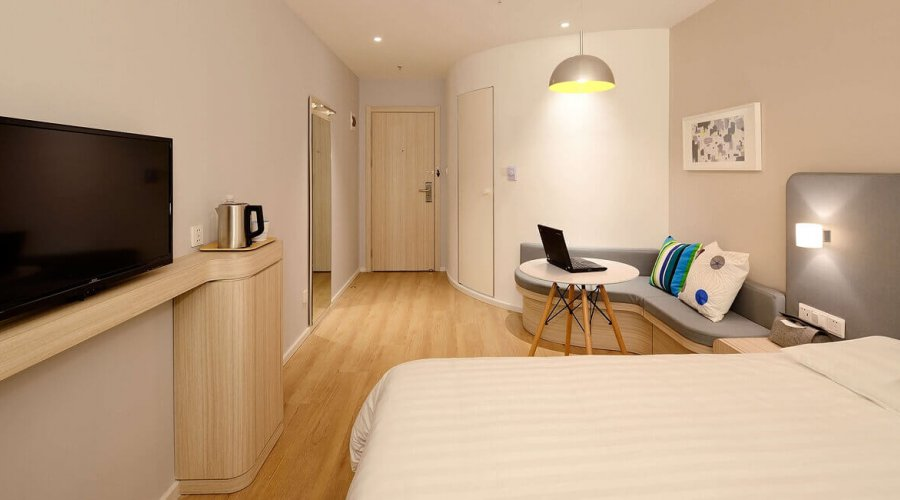
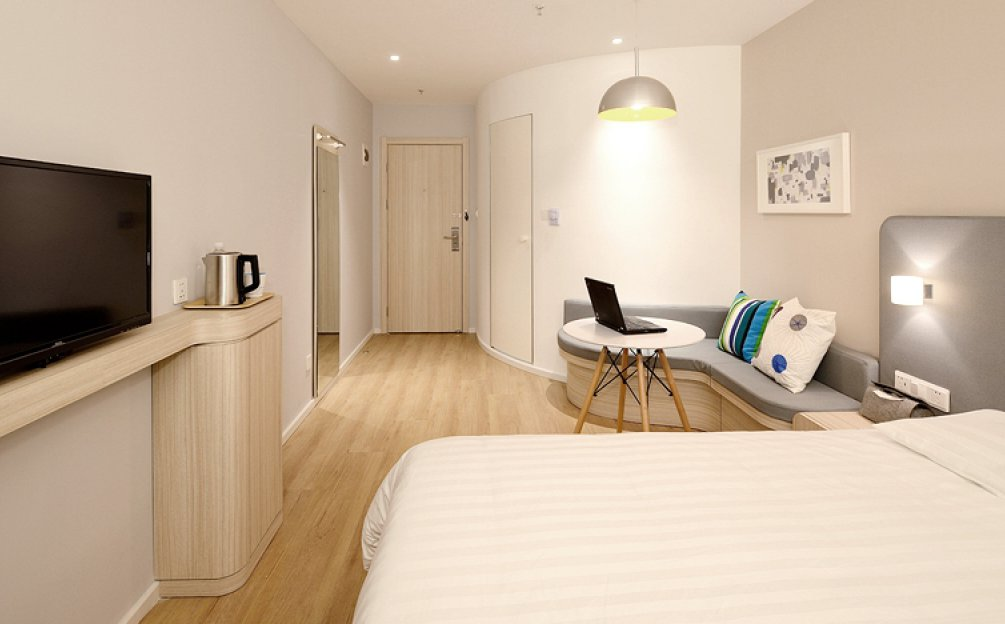
#35 Connect View Accommodations Page with Database

diff --git a/css/styles.css b/css/styles.css
@@ -48,4 +48,7 @@
         margin-left: auto !important;
         margin-right: auto !important;
     }
+    .milenia-widget .milenia-entities--rooms .milenia-entity-title:not(:only-child) {
+        margin-bottom: 0rem;
+    }
 }

diff --git a/view-accommodations.php b/view-accommodations.php
@@ -1,8 +1,22 @@
+<?php
+include_once(dirname(__FILE__) . '/class/include.php');
+
+$id = '';
+
+if (isset($_GET['id'])) {
+    $id = $_GET['id'];
+}
+
+$ROOM = new Room($id);
+
+$rooms = $ROOM->all();
+?>
+
 <!DOCTYPE html>
 <html lang="en">
     <head>
         <!--================ Basic page needs ================-->
-        <title>Araliya Gardens | Classic Balcony Room v1</title>
+        <title>Araliya Gardens | <?php echo $ROOM->title; ?></title>
         <meta charset="UTF-8">
         <meta name="author" content="">
         <meta name="keywords" content="">
@@ -60,11 +74,11 @@
             <!--================ Breadcrumb ================-->
             <div data-bg-image-src="images/breadcrumb-bg-2.jpg" class="milenia-breadcrumb text-center milenia-colorizer--scheme-dark milenia-colorizer--parallax">
                 <div class="container">
-                    <h1 class="milenia-page-title">View Accommodations</h1>
+                    <h1 class="milenia-page-title"><?php echo $ROOM->title; ?></h1>
                     <nav class="milenia-breadcrumb-path">
                         <span><a href="./">Home</a></span>
                         /<span><a href="accommodations.php">Accommodations</a></span>
-                        /<span>View Accommodations</span>
+                        /<span><?php echo $ROOM->title; ?></span>
                     </nav>
                 </div>
             </div>
@@ -74,7 +88,7 @@
                     <header class="milenia-page-header milenia-entity-single milenia-entity--room">
                         <div class="row align-items-center milenia-columns-aligner--edges-lg">
                             <div class="col-lg-9">
-                                <h1>Classic Balcony Room v1</h1>
+                                <h1><?php echo $ROOM->title; ?></h1>
                             </div>
                             <div class="col-lg-3">
                                 <div class="milenia-entity-meta">
@@ -88,27 +102,28 @@
                             <main class="col-lg-9 col-md-8 milenia-entity-single milenia-entity--room">
                                 <div class="milenia-entity-content">
                                     <div id="simple-slideshow-1" class="owl-carousel milenia-simple-slideshow">
-                                        <img src="images/rooms-list-image-22.jpg" alt="">
-                                        <img src="images/rooms-list-image-23.jpg" alt="">
-                                        <img src="images/rooms-list-image-24.jpg" alt="">
-                                        <img src="images/rooms-list-image-25.jpg" alt="">
-                                        <img src="images/rooms-list-image-26.jpg" alt="">
-                                        <img src="images/rooms-list-image-27.jpg" alt="">
-                                        <img src="images/rooms-list-image-28.jpg" alt="">
+                                        <?php
+                                        $photos = RoomPhoto::getRoomPhotosById($ROOM->id);
+                                        foreach ($photos as $photo) {
+                                            ?>
+                                            <img src="upload/room/gallery/<?php echo $photo['image_name']; ?>" alt="">
+                                            <?php
+                                        }
+                                        ?>
                                     </div>
                                     <div data-sync="#simple-slideshow-1" class="owl-carousel owl-carousel--nav-edges owl-carousel--nav-onhover owl-carousel--nav-small milenia-simple-slideshow-thumbs">
-                                        <img src="images/rooms-list-image-22.jpg" alt="">
-                                        <img src="images/rooms-list-image-23.jpg" alt="">
-                                        <img src="images/rooms-list-image-24.jpg" alt="">
-                                        <img src="images/rooms-list-image-25.jpg" alt="">
-                                        <img src="images/rooms-list-image-26.jpg" alt="">
-                                        <img src="images/rooms-list-image-27.jpg" alt="">
-                                        <img src="images/rooms-list-image-28.jpg" alt="">
+                                        <?php
+                                        $photos = RoomPhoto::getRoomPhotosById($ROOM->id);
+                                        foreach ($photos as $photo) {
+                                            ?>
+                                            <img src="upload/room/gallery/thumb/<?php echo $photo['image_name']; ?>" alt="">
+                                            <?php
+                                        }
+                                        ?>
                                     </div>
                                     <div id="tab-description" tabindex="0" role="tabpanel" aria-labelledby="tab-description-link" class="milenia-tab">
-                                        <p>Sed laoreet aliquam leo. Ut tellus dolor, dapibus eget, elementum vel, cursus eleifend, elit. Aenean auctor wisi et urna. Aliquam erat volutpat. Duis ac turpis. Integer rutrum ante eu lacus. Vestibulum libero nisl, porta vel, scelerisque eget, malesuada at, neque. Vivamus eget nibh. Etiam cursus leo vel metus. Nulla facilisi. Aenean nec eros. Vestibulum ante ipsum primis in faucibus orci luctus et ultrices posuere cubilia Curae; Suspendisse sollicitudin velit sed leo. 
-                                        Sed laoreet aliquam leo. Ut tellus dolor, dapibus eget, elementum vel, cursus eleifend, elit. Aenean auctor wisi et urna. Aliquam erat volutpat. Duis ac turpis. Integer rutrum ante eu lacus. Vestibulum libero nisl, porta vel, scelerisque eget, malesuada at, neque. Vivamus eget nibh. Etiam cursus leo vel metus. Nulla facilisi. Aenean nec eros. Vestibulum ante ipsum primis in faucibus orci luctus et ultrices posuere cubilia Curae; Suspendisse sollicitudin velit sed leo.</p>
-                                        <a href="#" data-fancybox-album-src="[{&quot;src&quot;: &quot;images/floor-plan.png&quot;, &quot;opts&quot;: {&quot;caption&quot;: &quot;The floor plan&quot;}}]" class="milenia-btn milenia-btn--link milenia-btn--scheme-primary">View Floor Plan</a>
+                                        <span class="content"><p><?php echo $ROOM->description; ?></p></span>
+                                        <a href="#" class="milenia-btn milenia-btn--link milenia-btn--scheme-primary">Inquiry Now</a>
                                     </div>
                                 </div>
                             </main>
@@ -124,111 +139,29 @@
                                                 <!--================ Entities ================-->
                                                 <div class="milenia-entities milenia-entities--rooms">
                                                     <!--================ Entity ================-->
-                                                    <article class="milenia-entity">
-                                                        <div class="milenia-entity-media">
-                                                            <a href="rooms_single_room_page_v2.html" class="milenia-ln--independent">
-                                                                <img src="images/rooms-list-image-26-100x78.png" alt=""></a>
-                                                        </div>
-                                                        <div class="milenia-entity-content">
-                                                            <div class="milenia-entity-header">
-                                                                <div class="milenia-entity-meta">
-                                                                    <div>From $199.00/night</div>
+                                                    <?php
+                                                    foreach ($rooms as $key => $room) {
+                                                        if ($key < 10) {
+                                                            ?>
+                                                            <article class="milenia-entity">
+                                                                <div class="milenia-entity-media">
+                                                                    <a href="view-accommodations.php?id=<?php echo $room["id"]; ?>" class="milenia-ln--independent">
+                                                                        <img src="upload/room/<?php echo $room['image_name'] ?>" alt=""></a>
                                                                 </div>
-                                                                <h2 class="milenia-entity-title"><a href="rooms_single_room_page_v2.html" class="milenia-color--unchangeable">Superior Double Room</a></h2>
-                                                            </div>
-                                                        </div>
-                                                    </article>
-                                                    <!--================ End of Entity ================-->
-                                                    <!--================ Entity ================-->
-                                                    <article class="milenia-entity">
-                                                        <div class="milenia-entity-media">
-                                                            <a href="rooms_single_room_page_v2.html" class="milenia-ln--independent">
-                                                                <img src="images/rooms-list-image-27-100x78.png" alt=""></a>
-                                                        </div>
-                                                        <div class="milenia-entity-content">
-                                                            <div class="milenia-entity-header">
-                                                                <div class="milenia-entity-meta">
-                                                                    <div>From $299.00/night</div>
+                                                                <div class="milenia-entity-content">
+                                                                    <div class="milenia-entity-header">
+                                                                        <div class="milenia-entity-meta">
+                                                                            <div>From US$<?php echo $room['price'] ?>/night</div>
+                                                                        </div>
+                                                                        <h2 class="milenia-entity-title">
+                                                                            <a href="view-accommodations.php?id=<?php echo $room["id"]; ?>" class="milenia-color--unchangeable"><?php echo $room['title'] ?></a></h2>
+                                                                    </div>
                                                                 </div>
-                                                                <h2 class="milenia-entity-title">
-                                                                    <a href="rooms_single_room_page_v2.html" class="milenia-color--unchangeable">Superior Balcony Double Room</a>
-                                                                </h2>
-                                                            </div>
-                                                        </div>
-                                                    </article>
-                                                    <!--================ End of Entity ================-->
-                                                    <!--================ Entity ================-->
-                                                    <article class="milenia-entity">
-                                                        <div class="milenia-entity-media">
-                                                            <a href="rooms_single_room_page_v2.html" class="milenia-ln--independent">
-                                                                <img src="images/rooms-list-image-28-100x78.png" alt=""></a>
-                                                        </div>
-                                                        <div class="milenia-entity-content">
-                                                            <div class="milenia-entity-header">
-                                                                <div class="milenia-entity-meta">
-                                                                    <div>From $399.00/night</div>
-                                                                </div>
-                                                                <h2 class="milenia-entity-title">
-                                                                    <a href="rooms_single_room_page_v2.html" class="milenia-color--unchangeable">Delux Double Room</a>
-                                                                </h2>
-                                                            </div>
-                                                        </div>
-                                                    </article>
-                                                    <!--================ End of Entity ================-->
-                                                    <!--================ Entity ================-->
-                                                    <article class="milenia-entity">
-                                                        <div class="milenia-entity-media">
-                                                            <a href="rooms_single_room_page_v2.html" class="milenia-ln--independent">
-                                                                <img src="images/rooms-list-image-26-100x78.png" alt=""></a>
-                                                        </div>
-                                                        <div class="milenia-entity-content">
-                                                            <div class="milenia-entity-header">
-                                                                <div class="milenia-entity-meta">
-                                                                    <div>From $199.00/night</div>
-                                                                </div>
-                                                                <h2 class="milenia-entity-title">
-                                                                    <a href="rooms_single_room_page_v2.html" class="milenia-color--unchangeable">Superior Double Room</a>
-                                                                </h2>
-                                                            </div>
-                                                        </div>
-                                                    </article>
-                                                    <!--================ End of Entity ================-->
-                                                    <!--================ Entity ================-->
-                                                    <article class="milenia-entity">
-                                                        <div class="milenia-entity-media">
-                                                            <a href="rooms_single_room_page_v2.html" class="milenia-ln--independent">
-                                                                <img src="images/rooms-list-image-27-100x78.png" alt=""></a>
-                                                        </div>
-                                                        <div class="milenia-entity-content">
-                                                            <div class="milenia-entity-header">
-                                                                <div class="milenia-entity-meta">
-                                                                    <div>From $299.00/night</div>
-                                                                </div>
-                                                                <h2 class="milenia-entity-title">
-                                                                    <a href="rooms_single_room_page_v2.html" class="milenia-color--unchangeable">Superior Balcony Double Room</a>
-                                                                </h2>
-                                                            </div>
-                                                        </div>
-                                                    </article>
-                                                    <!--================ End of Entity ================-->
-                                                    <!--================ Entity ================-->
-                                                    <article class="milenia-entity">
-                                                        <div class="milenia-entity-media">
-                                                            <a href="rooms_single_room_page_v2.html" class="milenia-ln--independent">
-                                                                <img src="images/rooms-list-image-28-100x78.png" alt=""></a>
-                                                        </div>
-                                                        <div class="milenia-entity-content">
-                                                            <div class="milenia-entity-header">
-                                                                <div class="milenia-entity-meta">
-                                                                    <div>From $399.00/night</div>
-                                                                </div>
-                                                                <h2 class="milenia-entity-title">
-                                                                    <a href="rooms_single_room_page_v2.html" class="milenia-color--unchangeable">Delux Double Room</a>
-                                                                </h2>
-                                                            </div>
-                                                        </div>
-                                                    </article>
-                                                    <!--================ End of Entity ================-->
+                                                            </article>
+                                                            <?php
+                                                        }
+                                                    }
+                                                    ?>
                                                 </div>
                                                 <!--================ End of Entities ================-->
                                             </div>

diff --git a/view-things-to-do.php b/view-things-to-do.php
@@ -116,14 +116,13 @@ $ThingsToDo = $THINGS_TO_DO->all();
                                         $photos = ThingsToDoPhoto::getThingsToDoPhotosById($THINGS_TO_DO->id);
                                         foreach ($photos as $photo) {
                                             ?>
-                                        <img alt="" src="upload/things-to-do/gallery/thumb/<?php echo $photo['image_name']; ?>">
+                                            <img alt="" src="upload/things-to-do/gallery/thumb/<?php echo $photo['image_name']; ?>">
                                             <?php
                                         }
                                         ?>
                                     </div>
                                     <div id="tab-description" tabindex="0" role="tabpanel" aria-labelledby="tab-description-link" class="milenia-tab">
-                                        <p><?php echo $THINGS_TO_DO->description; ?></p>
-                                        <a href="#" data-fancybox-album-src="[{&quot;src&quot;: &quot;images/floor-plan.png&quot;, &quot;opts&quot;: {&quot;caption&quot;: &quot;The floor plan&quot;}}]" class="milenia-btn milenia-btn--link milenia-btn--scheme-primary">View Floor Plan</a>
+                                        <span class="content"><p><?php echo $THINGS_TO_DO->description; ?></p></span>
                                     </div>
                                 </div>
                             </main>

diff --git a/admin/post-and-get/room-photo.php b/admin/post-and-get/room-photo.php
@@ -25,8 +25,8 @@ if (isset($_POST['create'])) {
         $handle->file_new_name_ext = 'jpg';
         $handle->image_ratio_crop = 'C';
         $handle->file_new_name_body = $img;
-        $handle->image_x = 900;
-        $handle->image_y = 500;
+        $handle->image_x = 1005;
+        $handle->image_y = 624;
 
         $handle->Process($dir_dest);
 
@@ -42,8 +42,8 @@ if (isset($_POST['create'])) {
         $handle->file_new_name_ext = 'jpg';
         $handle->image_ratio_crop = 'C';
         $handle->file_new_name_body = $img;
-        $handle->image_x = 300;
-        $handle->image_y = 175;
+        $handle->image_x = 160;
+        $handle->image_y = 100;
 
         $handle->Process($dir_dest_thumb);
 
@@ -98,8 +98,8 @@ if (isset($_POST['update'])) {
         $handle->file_new_name_ext = FALSE;
         $handle->image_ratio_crop = 'C';
         $handle->file_new_name_body = $img;
-        $handle->image_x = 900;
-        $handle->image_y = 500;
+        $handle->image_x = 1005;
+        $handle->image_y = 624;
 
         $handle->Process($dir_dest);
 
@@ -115,8 +115,8 @@ if (isset($_POST['update'])) {
         $handle->file_new_name_ext = FALSE;
         $handle->image_ratio_crop = 'C';
         $handle->file_new_name_body = $img;
-        $handle->image_x = 300;
-        $handle->image_y = 175;
+        $handle->image_x = 160;
+        $handle->image_y = 100;
 
         $handle->Process($dir_dest_thumb);
 

diff --git a/admin/post-and-get/things-to-do-photo.php b/admin/post-and-get/things-to-do-photo.php
@@ -26,7 +26,7 @@ if (isset($_POST['create'])) {
         $handle->image_ratio_crop = 'C';
         $handle->file_new_name_body = $img;
         $handle->image_x = 1005;
-        $handle->image_y = 670;
+        $handle->image_y = 624;
 
         $handle->Process($dir_dest);
 
@@ -43,7 +43,7 @@ if (isset($_POST['create'])) {
         $handle->image_ratio_crop = 'C';
         $handle->file_new_name_body = $img;
         $handle->image_x = 160;
-        $handle->image_y = 106;
+        $handle->image_y = 100;
 
         $handle->Process($dir_dest_thumb);
 
@@ -99,7 +99,7 @@ if (isset($_POST['update'])) {
         $handle->image_ratio_crop = 'C';
         $handle->file_new_name_body = $img;
         $handle->image_x = 1005;
-        $handle->image_y = 670;
+        $handle->image_y = 624;
 
         $handle->Process($dir_dest);
 
@@ -116,7 +116,7 @@ if (isset($_POST['update'])) {
         $handle->image_ratio_crop = 'C';
         $handle->file_new_name_body = $img;
         $handle->image_x = 160;
-        $handle->image_y = 106;
+        $handle->image_y = 100;
 
         $handle->Process($dir_dest_thumb);
 
